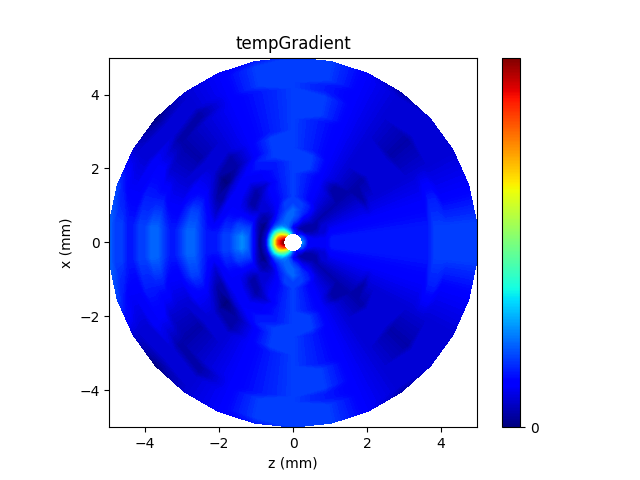
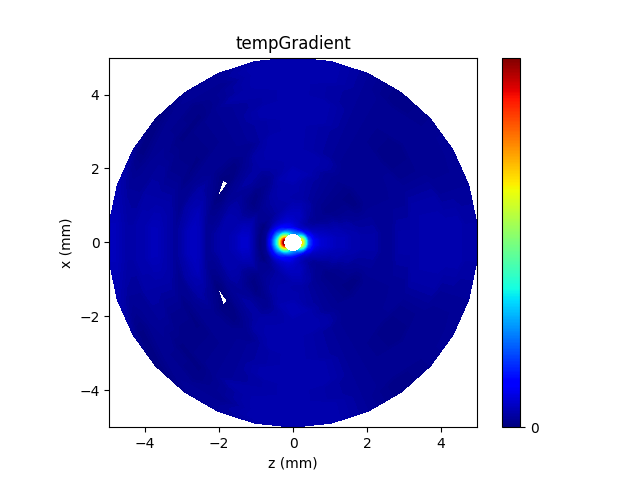
Moving back to desktop

diff --git a/equations/time_integrator.py b/equations/time_integrator.py
@@ -4,7 +4,7 @@ from equations.parameters import *
 def cot(tha):
     return 1/__np.tan(tha)
 
-def get_dTdt(r, tha, dr, dtha, a_ind, ptsInt, T, q):
+def get_dTdt(r, tha, dr, dtha, a_ind, ptsInt, T, q): # Needs to account for differing values of k
 
     dTdt = __np.zeros((r.size, tha.size))
 
@@ -19,70 +19,79 @@ def get_dTdt(r, tha, dr, dtha, a_ind, ptsInt, T, q):
     Tij3 = __np.roll(T, -3, axis=1)[:-1, 1:-1]
 
     # Interior case:
-    dTdt[ptsInt] =  gamma * (1/(r**2)) * (
+    dTdt[ptsInt] =  (k/(p*c)) * (1/(r**2)) * (
             (((r/dr) + ((r**2)/dr**2)) * Ti1j)
         + ((((r**2)/dr**2) - (r/dr)) * Tin1j)
         + (((cot(tha)/(2*dtha)) + (1/(dtha**2))) * Tij1)
         + (((cot(tha)/(2*dtha)) + (1/(dtha**2))) * Tijn1)
-        - ((((2*(r**2))/dr**2) - (2/(dtha**2))) * T[:-1, 1:-1])) # Needs trailing const
+        - ((((2*(r**2))/dr**2) - (2/(dtha**2))) * T[:-1, 1:-1])) + (q/(p*c))
 
     # Boundary cases:
     # tha max: Equation 6
-    dTdt[:, -1] = gamma * (1/(r**2)) * (
+    dTdt[:, -1] = (k/(p*c)) * (1/(r**2)) * (
             ((((-2*(r**2))/(dr**2)) + (cot(tha)/(2*dtha)) - (1/(dtha**2))) * T[:-1, 1:-1]) 
         + (((r/dr) + (r**2/(dr**2))) * Ti1j)
         + (((r**2/(dr**2)) - (r/dr)) * Tin1j)
-        + (((1/(dtha**2)) - (cot(tha)/(2*dtha))) * Tijn1)) # Needs trailing const
+        + (((1/(dtha**2)) - (cot(tha)/(2*dtha))) * Tijn1)) + (q/(p*c))
 
     # tha min: Equation 5
-    dTdt[:, 0] = gamma * (1/(r**2)) * (
+    dTdt[:, 0] = (k/(p*c)) * (1/(r**2)) * (
         - ((((2*r**2)/(dr**2)) + (cot(tha)/(2*dtha)) + (1/(dtha**2))) * T[:-1, 1:-1])
         + (((r/dr) + (r**2/(dr**2))) * Ti1j)
         + (((r**2/(dr**2)) - (r/dr)) * Tin1j)
-        + (((cot(tha)/(2*dtha)) + (1/(dtha**2))) * Tij1)) # Needs trailing const
+        + (((cot(tha)/(2*dtha)) + (1/(dtha**2))) * Tij1)) + (q/(p*c))
 
     # r a: Equation 3 right
-    dTdt[a_ind, :] = gamma * (1/(r**2)) * (
-            ((((-3*r)/dr) + ((2*r)/dr**2) - ((3*cot(tha))/(2*dtha)) + (2/(dtha**2))) * T[:-1, 1:-1])
-        + ((((4*r)/dr) - ((5*r**2)/dr**2)) * Ti1j)
+    dTdt[a_ind, :] = (k/(p*c)) * (1/(r**2)) * (
+            ((((-3*r)/dr) + ((2*r)/(dr**2)) - ((3*cot(tha))/(2*dtha)) + (2/(dtha**2))) * T[:-1, 1:-1])
+        + ((((4*r)/dr) - ((5*r**2)/(dr**2))) * Ti1j)
         + ((((4*r**2)/(dr**2)) - (r/dr)) * Ti2j)
         - (((r**2)/(dr**2)) * Ti3j)
         + ((((2*cot(tha))/dtha) - (5/(dtha**2))) * Tij1)
         + (((4/(dtha**2)) - (cot(tha)/(2*dtha))) * Tij2)
-        - ((1/(dtha**2)) * Tij3)) # Needs trailing const
+        - ((1/(dtha**2)) * Tij3)) + (q/(p*c))
 
     # r max: Should be handled as an internal point with Tinf padding
+    
     # r min: Derivative estimate? Emailed Dr.Baker
+    dTdt[0, :] = __np.average(dTdt[1,:])
 
     return dTdt
 
-def get_T(r, tha, time, gamma, dt, dr, dtha): # NEEDS "a" , "T0"
+def get_T(r, tha, time, gamma, dt, dr, dtha, q1):
 
     # Append points to r
-    # Need to be careful with input sanitization to get exactly 0 and exactly a in the linspace
+    # Need to be careful with input sanitization to get exactly step_size and exactly a in the linspace
     step_size = r[1] - r[0]
     num_additional_points = int(a/step_size)
-    extra_points = __np.linspace(0, a-step_size, num_additional_points)
+    extra_points = __np.linspace(step_size, a-step_size, num_additional_points)
     r = __np.concatenate((extra_points, r))
 
     # Declare necessary arrays for Ralston's Method
     T = __np.full(shape=(r.size+1, tha.size+2, time.size), fill_value=T0 )
-    dTdt = __np.zeros((r.size, tha.size, time.size))
     T34 = __np.zeros((r.size+1, tha.size+2, time.size))
+    dTdt = __np.zeros((r.size, tha.size, time.size))
     dTdt34 = __np.zeros((r.size, tha.size, time.size))
 
-    # Tiling r and tha for matix operations
+    # Tiling r, tha, and k for matix operations
     r_exp = __np.tile(r, (dTdt.shape[1],1)).T # Dupes r vector across columns
     tha_exp = __np.tile(tha, (dTdt.shape[0],1)) # Dupes tha vector across rows
+    k_exp = __np.full(shape=(r.size, tha.size), fill_value=binderk)
 
     # Mask the internal points
     ptsInt = __np.full(shape=(r.size, tha.size), fill_value=True)
-    ptsInt[:, -1] = False  # tha max: might just be treated as internal
-    ptsInt[:, 0] = False  # tha min
-    ptsInt[-1, :] = False  # r max
+    ptsInt[:, -1] = False # tha max WRONG - depends how we handle the 2 pts that are both boundaries
+    ptsInt[:, 0] = False  # tha min WRONG - depends how we handle the 2 pts that are both boundaries
+    # r max should be treated as internal as long as we pad with Tinf
     ptsInt[0, :] = False  # r min
     a_ind = __np.where(r == a)[0][0] # find r = a
     ptsInt[a_ind, :] = False # r = a
+
+
+    # Handle strangeness with the q matrix
+    q = __np.transpose(q1[:-1,:])
+    extra_points = __np.zeros((num_additional_points, tha.size))
+    q = __np.concatenate((extra_points, q))
 
     for t in range(0, time.size-1):
 
@@ -92,8 +101,6 @@ def get_T(r, tha, time, gamma, dt, dr, dtha): # NEEDS "a" , "T0"
 
         # Pad with Tinf at medium-air boundary (r max padding)
         T[-1,:,t] = 21
-
-        # r min padding? Derivative estimate? Emailed Dr.Baker. May go in get_dTdt
 
         # Calculate dTdt
         dTdt[:,:,t] = get_dTdt(r_exp, tha_exp, dr, dtha, a_ind, ptsInt, T[:,:,t], q)
@@ -113,6 +120,6 @@ def get_T(r, tha, time, gamma, dt, dr, dtha): # NEEDS "a" , "T0"
     T = T[:-1, 1:-1,:]
 
     # Mirror the values over tha = 0
-    T = __np.concatenate((__np.flip(T[1:, :], axis=0), T), axis=0)
+    T = __np.concatenate((__np.flip(T[1:, :], axis=0), T), axis=0) # Probably need to dupe first and last cols before mirror
 
     return T

diff --git a/equations/An_Bn.py b/equations/An_Bn.py
@@ -5,7 +5,7 @@ from equations.scipy_funcs import hn, jn
 #Coefficient for the Longitudinal and Shear Wave Potentials respectivly
 #========================================================================================
 
-#A_n and B_n (this is a test comment)
+#A_n and B_n
 def An_Bn(n):
     from equations.parameters import a1, a, B1, P, eta
     if n == 1:
@@ -38,3 +38,22 @@ def An_Bn(n):
         An = x[0][0]
         Bn = x[1][0]
     return An, Bn
+    
+'''
+def An_Bn(n):
+    from equations.parameters import a1, a, B1, P, eta
+    from math import factorial as fact
+    An, Bn = 0, 0
+    if n == 0:
+        An = (-1/3)*(1j)*P*(a1*a)**3
+    elif n == 1:
+        An = (1/3)*P*(1 - 1/eta)*(a1*a)**3
+    elif n > 1:
+        Np = n*(4*n**2 - 1)/(n + (n + 1)*(B1/a1)**2)
+        An = 1j**(n-1)*P*(2**n*fact(n)/fact(2*n))**2 * Np * (a1*a)**(2*n-1)
+    if n > 0:
+        Bn = -(B1/a1)**(n+1)*An/n
+    else:
+        Bn = 0
+    return An, Bn
+'''
